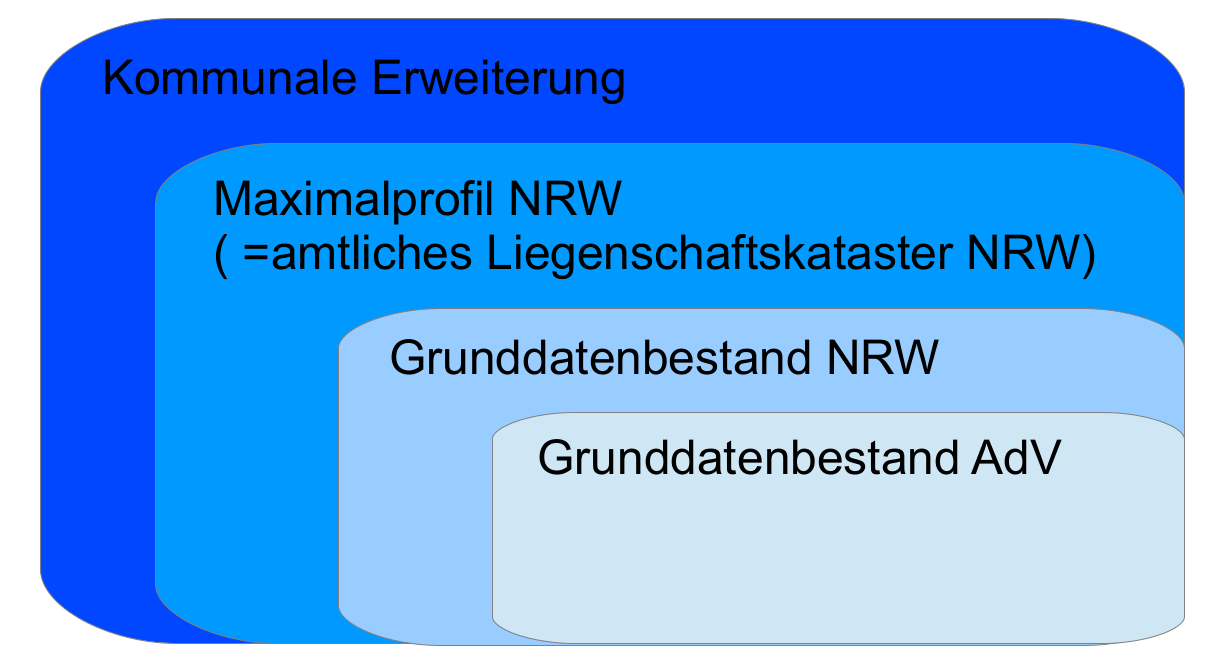
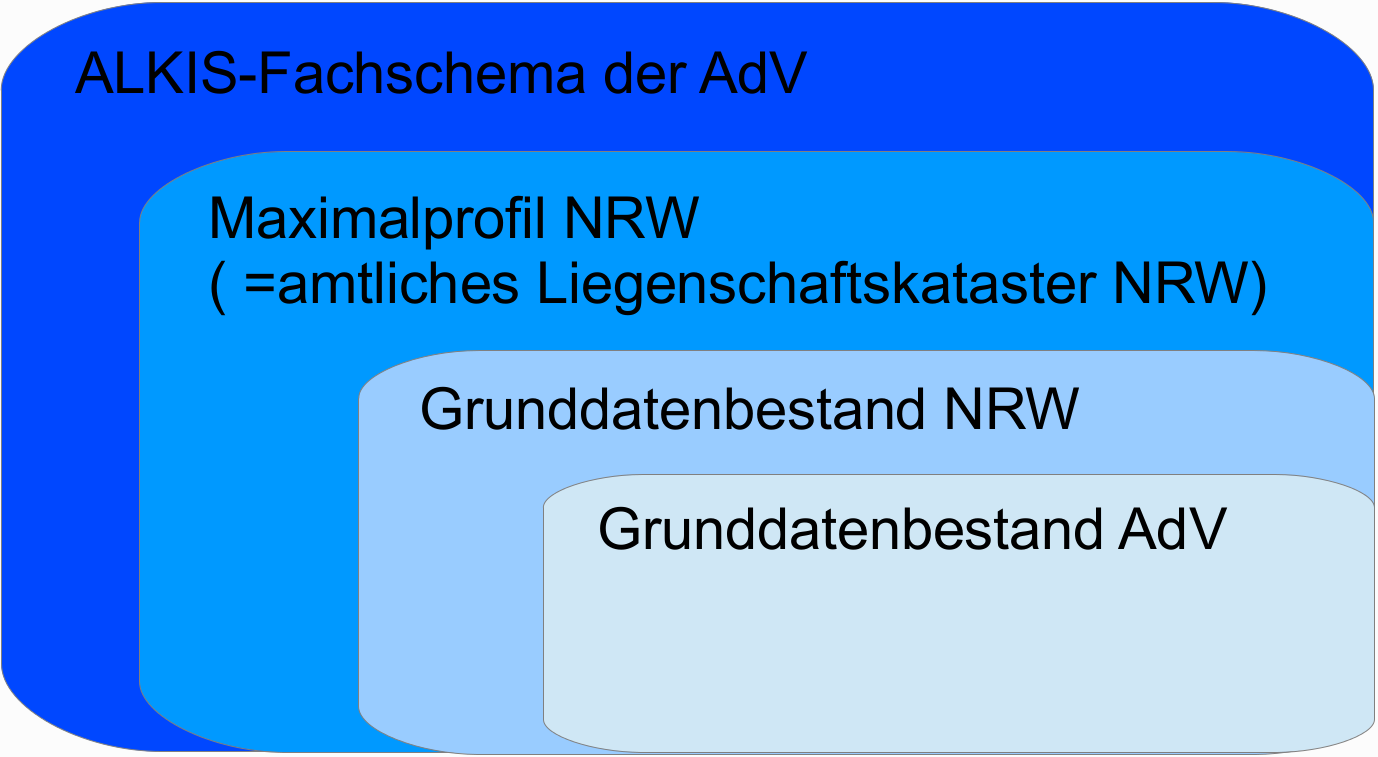
ALKIS Beschreibung aus ALKIS-Standardausgaben rausgezogen

diff --git a/chapters/produkte/produkte.tex b/chapters/produkte/produkte.tex
@@ -20,6 +20,26 @@ Danach werden einige Workflows von externen Benutzern beleuchtet, woraufhin übe
 \item Punktnummerreservierung
 \end{itemize}
 
+\subsection{ALKIS und sein Datenmodell}
+Das \acf{ALKIS} ersetzt das \acf{ALB} und die \acf{ALK}, indem es die Daten beider Systeme vereint. Die \acs{AdV} hat \acs{ALKIS} entwickelt und organisiert die Pflege des Datenmodells \autocite[vgl.][]{adv-alkis}.
+
+Das Datenmodell von ALKIS ist stufenweise aufgebaut. Die oberste Stufe ist das ALKIS-Fachschema der AdV, dieses Fachschema bildet eine Grundlage mit der sämtliche Objekte, Attribute und Attributwerte aller Katasterbehörden Deutschlands abgebildet werden können.
+Die folgenden Stufen sind Reduktionen dieses Fachschema, d.h. sie benutzen nur einen Teil dieser Grundlage. Weiterhin ist die jeweils folgende Stufe eine Reduktion der vorhergegangenen Stufe. Eine Übersicht der einzelnen Stufen kann der \myfig{fig:prod-stufen} entnommen werden. 
+
+\begin{figure}[htbp]
+	\centering
+	\incgraph{width=0.8\textwidth}{./img/prod-stufen.png}
+	\caption{Erweiterungen der Datenbestände}
+	\label{fig:prod-stufen}
+\end{figure}
+
+In \ac{NRW} wurde das Maximalprofil NRW festgelegt, da hier einige Objekte nicht benötigt werden. Alle Informationen die im Maximalprofil NRW geführt werden gehören zum amtlichen Liegenschaftskataster.
+Weiterhin dürfen in NRW nur diese Informationen innerhalb ALKIS geführt werden. Jedes Katasteramt darf frei wählen welche Informationen es aus dieser Stufe führen will, vorausgesetzt diese Informationen gehören nicht zu einer unteren Stufe.
+Die nächste Stufe bildet der Grunddatenbestand NRW dieser ist landesweit gültig und muss von jedem Katasteramt in NRW geführt werden.
+Die unterste Stufe bildet der Grunddatenbestand AdV, dieser ist bundesweit gültig und muss von jedem Katasteramt in Deutschland geführt werden.
+
+Weiterhin haben die Katasterämter die Möglichkeit eine eigene Stufe zu diesem Stufenkonzept hinzuzufügen, diese gehört im Gegensatz zu den vorherigen Stufen nicht mehr zum amtlichen Liegenschaftskataster \autocite[vgl.][1-4]{bezk-grunddaten}. In Wuppertal ist dies ALWIS. \todo{Umformulieren und erweitern.}
+
 
 \section{Auflistung der Produkte}
 In diesem Abschnitt werden die Produkte aufgelistet, welche die externen Benutzer selbst beziehen können. Diese Produkte sind in vier Produktklassen eingeteilt:
@@ -40,28 +60,9 @@ Diese Produktklassen unterteilen die Produkte logisch und geben an von welcher S
 
 Die Produkte dieser Produktklasse sind in \acs{ALKIS} landesweit standardisiert und beschrieben oder es sind kommunale Erweiterungen davon.
 
-Das \acf{ALKIS} ersetzt das \acf{ALB} und die \acf{ALK}, indem es die Daten beider Systeme vereint. Die \acs{AdV} hat \acs{ALKIS} entwickelt und organisiert die Pflege des Datenmodells \autocite[vgl.][]{adv-alkis}.
+In der Produktklasse wird weiterhin zwischen landesweit einheitliche Standardausgaben und kommunalen Produkten unterschieden. Bei den Standardausgaben handelt es sich um Auszüge aus dem Liegenschaftskataster deren Inhalt und Form landesweit festgelegt ist. Diese Ausgaben beinhalten nur Daten die im Grunddatenbestand NRW definiert sind \autocite[vgl.][8]{bezk-grunddaten}.
 
-Das Datenmodell ist stufenweise aufgebaut. Die oberste Stufe ist das ALKIS-Fachschema der AdV, dieses Fachschema bildet eine Grundlage mit der sämtliche Objekte, Attribute und Attributwerte aller Katasterbehörden Deutschlands abgebildet werden können.
-Die folgenden Stufen sind Reduktionen dieses Fachschema, d.h. sie benutzen nur einen Teil dieser Grundlage. Weiterhin ist die jeweils folgende Stufe eine Reduktion der vorhergegangenen Stufe. Eine Übersicht der einzelnen Stufen kann der \myfig{fig:prod-stufen} entnommen werden. 
-
-\begin{figure}[htbp]
-	\centering
-	\incgraph{width=0.8\textwidth}{./img/prod-stufen.png}
-	\caption{Erweiterungen der Datenbestände}
-	\label{fig:prod-stufen}
-\end{figure}
-
-In \ac{NRW} wurde das Maximalprofil NRW festgelegt, da hier einige Objekte nicht benötigt werden. Alle Informationen die im Maximalprofil NRW geführt werden gehören zum amtlichen Liegenschaftskataster.
-Weiterhin dürfen in NRW nur diese Informationen innerhalb ALKIS geführt werden. Jedes Katasteramt darf frei wählen welche Informationen es aus dieser Stufe führen will, vorausgesetzt diese Informationen gehören nicht zu einer unteren Stufe.
-Die nächste Stufe bildet der Grunddatenbestand NRW dieser ist landesweit gültig und muss von jedem Katasteramt in NRW geführt werden.
-Die unterste Stufe bildet der Grunddatenbestand AdV, dieser ist bundesweit gültig und muss von jedem Katasteramt in Deutschland geführt werden.
-
-Weiterhin haben die Katasterämter die Möglichkeit eine eigene Stufe zu diesem Stufenkonzept hinzuzufügen, diese gehört im Gegensatz zu den vorherigen Stufen nicht mehr zum amtlichen Liegenschaftskataster \autocite[vgl.][1-4]{bezk-grunddaten}. In Wuppertal ist dies ALWIS. \todo{Umformulieren und erweitern.}
-
-In der Produktklasse wird weiterhin zwischen landesweit einheitliche Standardausgaben und kommunalen Produkten unterschieden. Bei den Standardausgaben handelt es sich um Auszüge aus dem Liegenschaftskataster deren Inhalt und Form landesweit festgelegt ist. Diese Ausgaben beinhalten nur Daten die im Grunddatenbestand NRW definiert sind \autocite[vgl.][8]{bezk-grunddaten}. Die landesweite Festlegung erklärt den Anhang \textit{(NRW)}, der sich hinter den Produktnamen befindet.
-
-Bei den kommunalen Produkten handelt es sich um Auszüge aus dem Liegenschaftskataster, allerdings dürfen auch Daten verwendet werden, die nicht im Grunddatenbestand NRW definiert sind. Ein Beispiel eines kommunalen Produktes wäre eine modifizierte Standardausgabe, die mit Daten aus dem Maximalprofil NRW erweitert wurde. Weiterhin muss die Bezeichnung bzw. Beschriftung deutlich gekennzeichnet sein, so dass eine Verwechslung mit den Standardausgaben ausgeschlossen ist \autocite[vgl.][9]{bezk-grunddaten}. Dies wird durch den Anhang \textit{(kommunal)} garantiert.
+Bei den kommunalen Produkten handelt es sich um Auszüge aus dem Liegenschaftskataster, allerdings dürfen auch Daten verwendet werden, die nicht im Grunddatenbestand NRW definiert sind. Ein Beispiel eines kommunalen Produktes wäre eine modifizierte Standardausgabe, die mit Daten aus dem Maximalprofil NRW erweitert wurde. Weiterhin muss die Bezeichnung bzw. Beschriftung deutlich gekennzeichnet sein, so dass eine Verwechslung mit den Standardausgaben ausgeschlossen ist \autocite[vgl.][9]{bezk-grunddaten}. Dies wird durch die Anhänge \textit{(NRW)} bzw. \textit{(kommunal)} garantiert.
 
 Die Produkte der Produktklasse ALKIS-Standardausgaben können der Tabelle \ref{tab-alkis-standard-start} \vpagerefrange{tab-alkis-standard-start}{tab-alkis-standard-end} entnommen werden.
 
